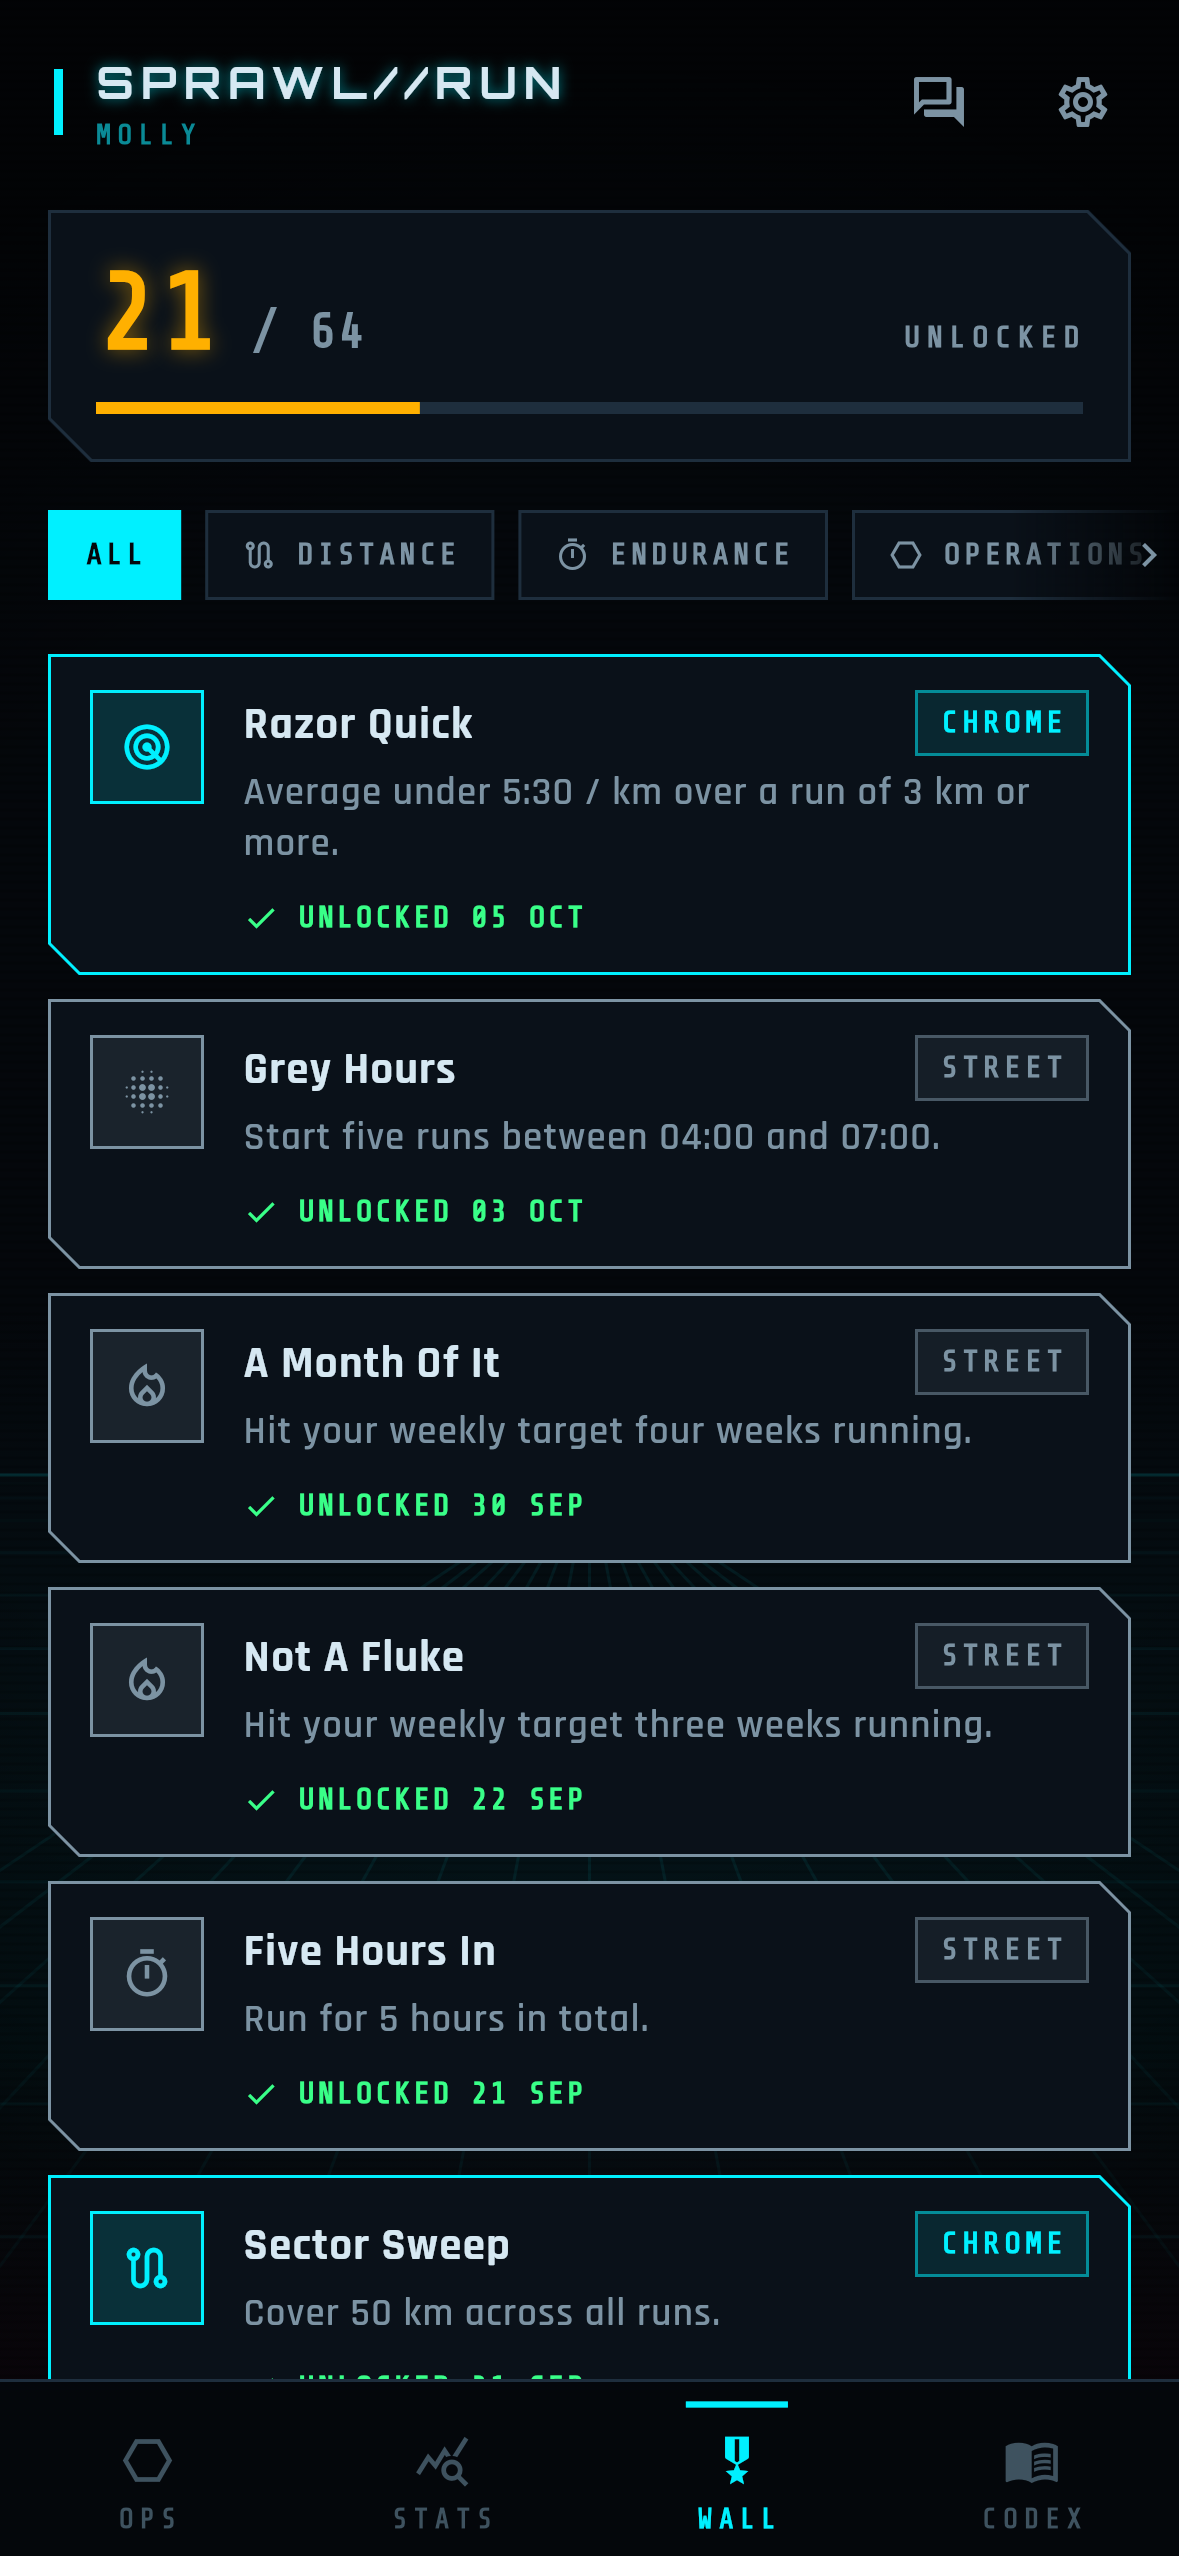
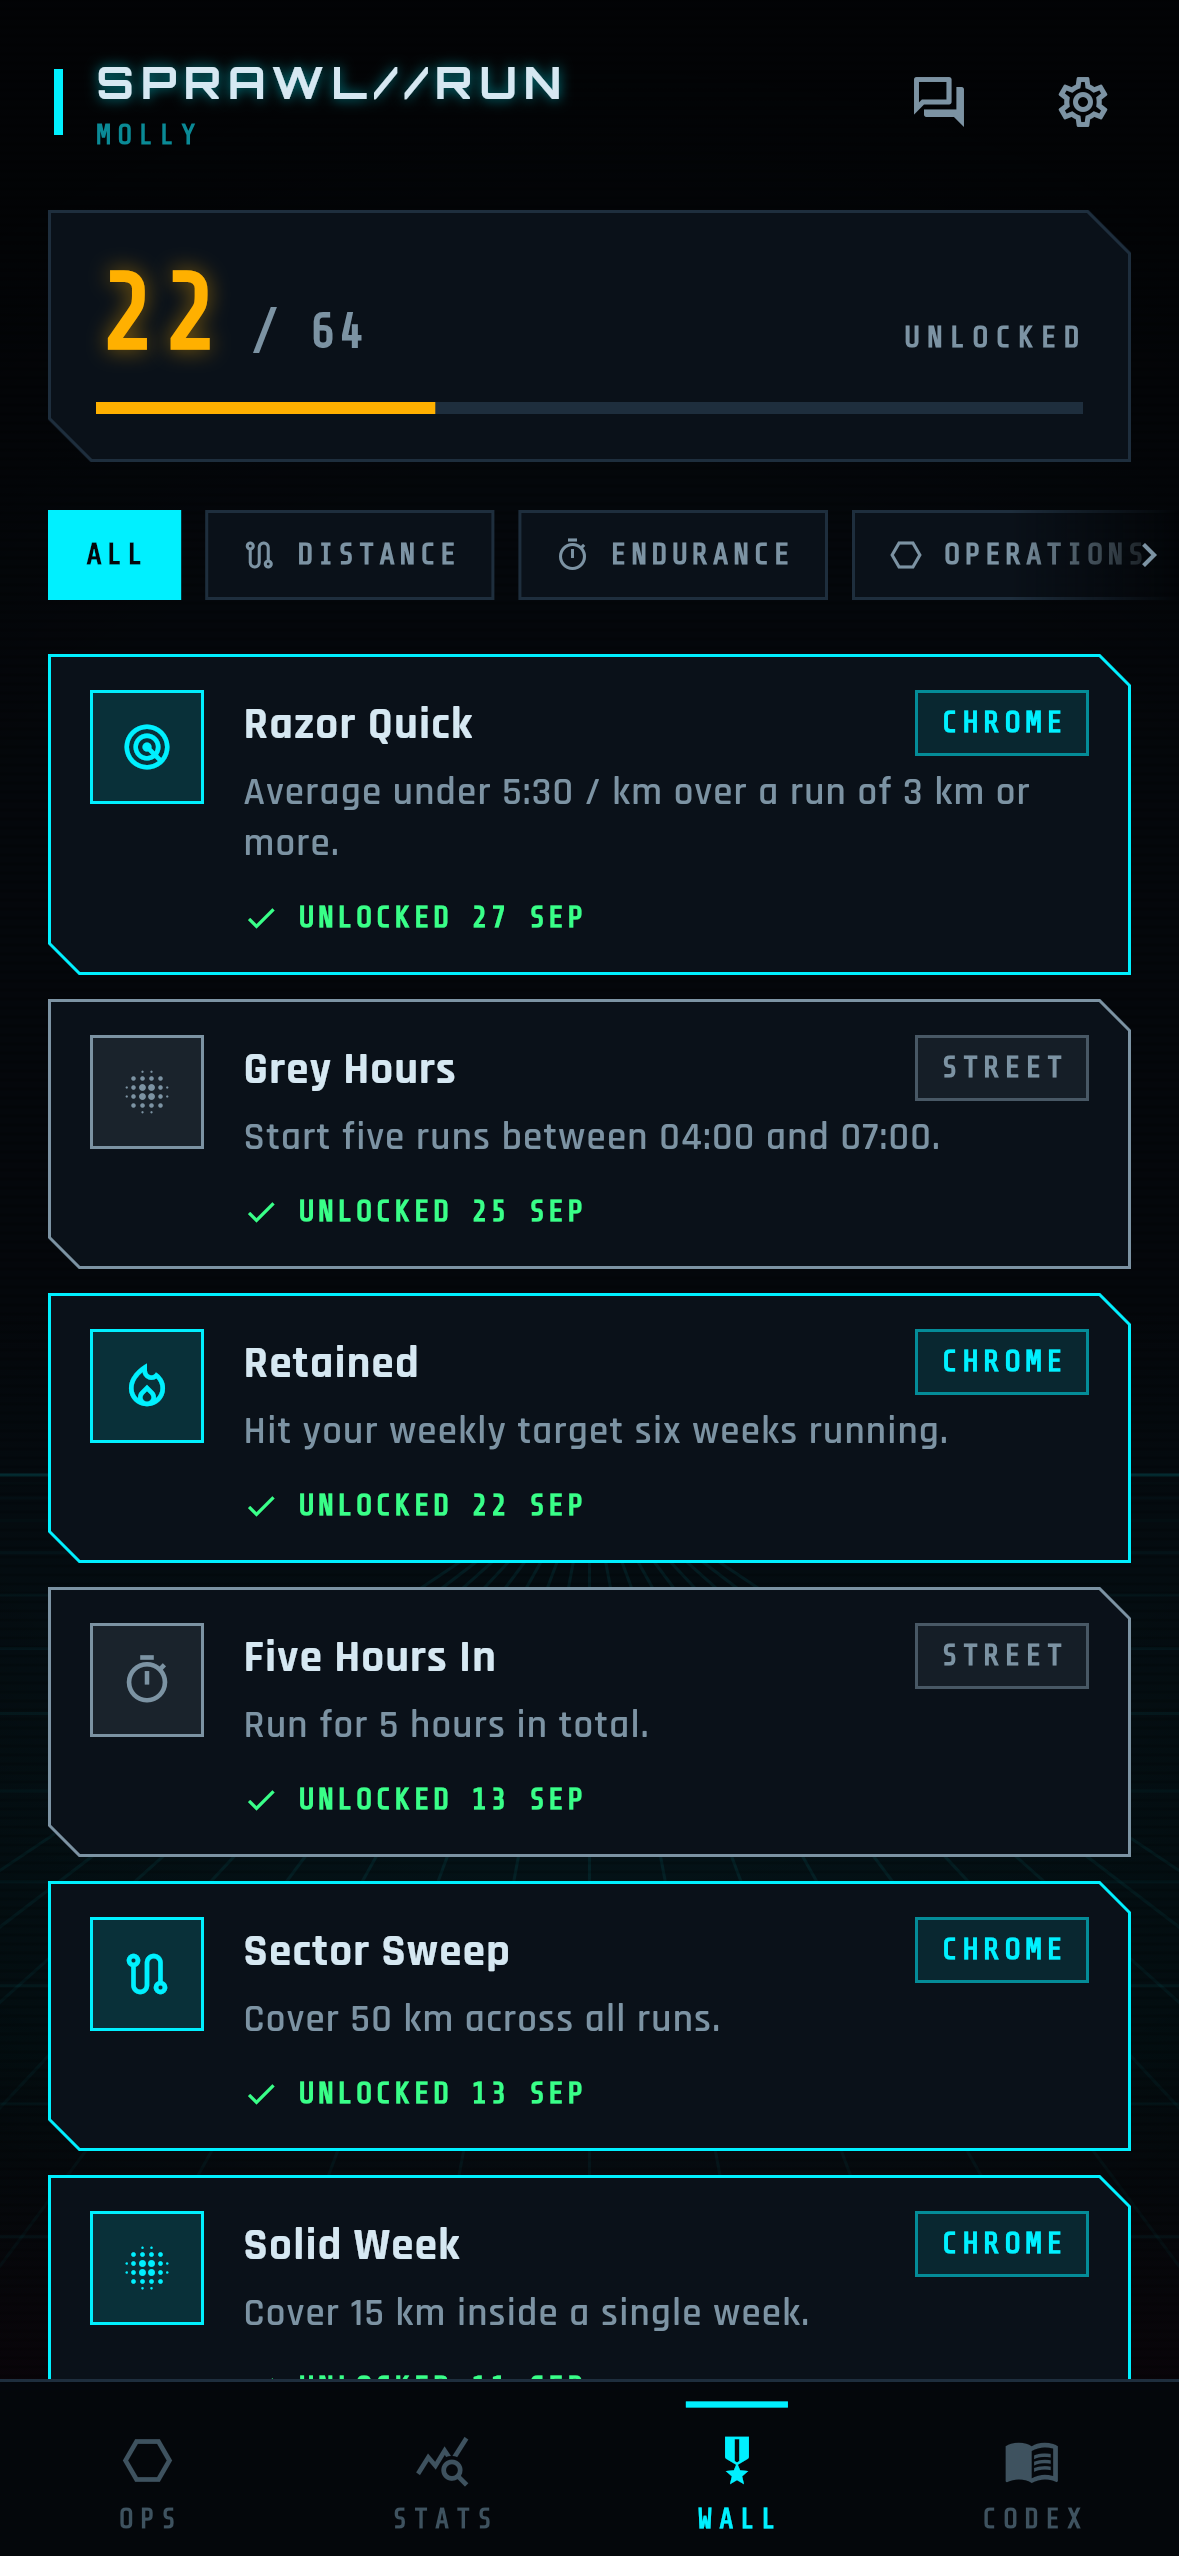
Pin the screenshot tool to a fixed Sunday evening

diff --git a/lib/services/stats_service.dart b/lib/services/stats_service.dart
@@ -4,6 +4,7 @@ import '../models/profile.dart';
 import '../models/run_record.dart';
 import '../models/stats.dart';
 import '../util/format.dart';
+import '../util/clock.dart';
 
 /// Every derived number in the app is computed here, from the run log alone.
 ///
@@ -67,7 +68,7 @@ abstract final class StatsService {
 
   /// Rolling window ending now — "the last 7 days", not "since Monday".
   static PeriodStats lastDays(List<RunRecord> runs, int days, {required String label, DateTime? now}) {
-    final end = _nextDay(dayStart(now ?? DateTime.now()));
+    final end = _nextDay(dayStart(now ?? appNow()));
     return period(runs, label: label, from: end.subtract(Duration(days: days)), to: end);
   }
 
@@ -86,7 +87,7 @@ abstract final class StatsService {
     final scoring = runs.where((r) => r.countsForStats);
     if (scoring.isEmpty) return const [];
     final first = scoring.map((r) => r.startedAt).reduce((a, b) => a.isBefore(b) ? a : b);
-    final last = monthStart(now ?? DateTime.now());
+    final last = monthStart(now ?? appNow());
 
     final out = <PeriodStats>[];
     for (var month = monthStart(first); !month.isAfter(last); month = addMonths(month, 1)) {
@@ -108,7 +109,7 @@ abstract final class StatsService {
     }
 
     final weekly = _weeklyTotals(scoring);
-    final streak = _streakWeeks(weekly, goal, now: now ?? DateTime.now());
+    final streak = _streakWeeks(weekly, goal, now: now ?? appNow());
 
     final sortedByDate = List<RunRecord>.from(scoring)..sort((a, b) => a.startedAt.compareTo(b.startedAt));
     final completed = scoring.where((r) => r.isMission && r.isSuccess).map((r) => r.missionId!).toSet();
@@ -144,7 +145,7 @@ abstract final class StatsService {
   }
 
   static StreakStatus streak(List<RunRecord> runs, StreakGoal goal, {DateTime? now}) {
-    final at = now ?? DateTime.now();
+    final at = now ?? appNow();
     final weekly = _weeklyTotals(runs.where((r) => r.countsForStats).toList());
     final (current, longest) = _streakWeeks(weekly, goal, now: at);
 

diff --git a/tool/screenshots/capture_test.dart b/tool/screenshots/capture_test.dart
@@ -21,7 +21,7 @@ import 'package:flutter_test/flutter_test.dart';
 import 'package:provider/provider.dart';
 import 'package:sprawl_run/widgets/glitch_text.dart';
 import 'package:sprawl_run/app.dart';
-import 'package:sprawl_run/screens/dashboard_screen.dart';
+import 'package:sprawl_run/util/clock.dart';
 import 'package:sprawl_run/data/mission_repository.dart';
 import 'package:sprawl_run/data/profile_repository.dart';
 import 'package:sprawl_run/data/run_repository.dart';
@@ -299,6 +299,10 @@ List<TracePoint> _sampleRoute({
   ];
 }
 
+/// When the screenshots claim to be taken. A Sunday, so the sample weeks are
+/// all whole.
+final _shotsTakenAt = DateTime(2026, 9, 27, 21, 0);
+
 Future<AppState> _seed(WidgetTester tester) async {
   // The run screen asks for notification permission before it starts the run,
   // and an unanswered platform call never returns in the harness — so the HUD
@@ -308,9 +312,13 @@ Future<AppState> _seed(WidgetTester tester) async {
     (call) async => true,
   );
 
-  // Evening, the hour the run-HUD shot is set at — and the night city's line.
-  debugGreetingHour = 21;
-  addTearDown(() => debugGreetingHour = null);
+  // The app's "now", pinned: a Sunday evening, so every week in the sample
+  // data is complete — on a real Monday the current week was nearly empty and
+  // the streak card read "1 MIN to go" — and the hour of the run-HUD shot,
+  // which is also the night city's greeting. Every shot is then the same
+  // whenever and wherever the tool runs.
+  debugNow = _shotsTakenAt;
+  addTearDown(() => debugNow = null);
 
   tester.view.physicalSize = _logicalSize * _pixelRatio;
   tester.view.devicePixelRatio = _pixelRatio;
@@ -330,7 +338,7 @@ Future<AppState> _seed(WidgetTester tester) async {
   );
 
   // Anchored to today so regenerating always shows a live current week.
-  final base = DateTime.now();
+  final base = _shotsTakenAt;
   final today = DateTime(base.year, base.month, base.day, 7, 30);
 
   await tester.runAsync(() async {

diff --git a/lib/screens/dashboard_screen.dart b/lib/screens/dashboard_screen.dart
@@ -11,6 +11,7 @@ import '../services/backup_nudge.dart';
 import '../state/app_state.dart';
 import '../theme/cyber_palette.dart';
 import '../theme/cyber_theme.dart';
+import '../util/clock.dart';
 import '../util/format.dart';
 import '../widgets/backup_controls.dart';
 import '../widgets/glitch_text.dart';
@@ -128,12 +129,6 @@ class DashboardScreen extends StatelessWidget {
   }
 }
 
-/// Pins the hour the greeting reads. Left to the real clock, every screenshot
-/// regeneration changed the dashboard shot for nothing but the time of day it
-/// happened to run at. Named `debug` in the Flutter sense: it exists for
-/// `tool/screenshots/capture_test.dart` and nothing in the app sets it.
-int? debugGreetingHour;
-
 class _Greeting extends StatelessWidget {
   const _Greeting({required this.callsign});
 
@@ -142,7 +137,7 @@ class _Greeting extends StatelessWidget {
   /// Flavour that tracks the clock — the Sprawl is a night city, and the app
   /// should sound like it knows what time it is.
   String get _line {
-    final hour = debugGreetingHour ?? DateTime.now().hour;
+    final hour = appNow().hour;
     if (hour < 5) {
       return 'The city is at its quietest. Nobody is watching the streets at this hour.';
     }
@@ -160,7 +155,7 @@ class _Greeting extends StatelessWidget {
   }
 
   String get _salutation {
-    final hour = debugGreetingHour ?? DateTime.now().hour;
+    final hour = appNow().hour;
     if (hour < 5) return 'STILL AWAKE';
     if (hour < 12) return 'MORNING';
     if (hour < 18) return 'AFTERNOON';

diff --git a/lib/screens/timeline_screen.dart b/lib/screens/timeline_screen.dart
@@ -13,6 +13,7 @@ import '../widgets/backdrop.dart';
 import '../widgets/filter_rail.dart';
 import '../widgets/panels.dart';
 import 'run_detail_screen.dart';
+import '../util/clock.dart';
 
 /// THE WIRE — everything that has come over it, newest first: the handlers'
 /// messages, runs, cleared operations, achievements and intel. Called the
@@ -110,7 +111,7 @@ class _TimelineScreenState extends State<TimelineScreen> {
           .where((e) => e.kind == TimelineKind.signal && e.title == focus.from && e.body == focus.text)
           .firstOrNull;
       if (focused == null) {
-        focused = TimelineEntry(at: DateTime.now(), kind: TimelineKind.signal, title: focus.from, body: focus.text);
+        focused = TimelineEntry(at: appNow(), kind: TimelineKind.signal, title: focus.from, body: focus.text);
         entries = [focused, ...entries];
       }
     }
@@ -231,7 +232,7 @@ class _DayHeader extends StatelessWidget {
 
   @override
   Widget build(BuildContext context) {
-    final now = DateTime.now();
+    final now = appNow();
     final today = DateTime(now.year, now.month, now.day);
     final label = switch (today.difference(day).inDays) {
       0 => 'TODAY',

diff --git a/lib/state/app_state.dart b/lib/state/app_state.dart
@@ -22,6 +22,7 @@ import '../services/signal_library.dart';
 import '../services/signal_planner.dart';
 import '../services/signal_scheduler.dart';
 import '../services/stats_service.dart';
+import '../util/clock.dart';
 
 /// The single source of truth the UI reads from.
 ///
@@ -84,7 +85,7 @@ class AppState extends ChangeNotifier {
   Future<void> loadSignalArchive() async {
     if (_archiveRequested) return;
     _archiveRequested = true;
-    signalHistory = _library.resolveAll(await signalLog.sent(DateTime.now()));
+    signalHistory = _library.resolveAll(await signalLog.sent(appNow()));
     _archiveReady = true;
     notifyListeners();
   }
@@ -457,7 +458,7 @@ class AppState extends ChangeNotifier {
 
   /// Whether to ask the runner to export, and how much is at stake.
   BackupNudge? get backupNudge =>
-      BackupNudge.of(profile: profile, runLog: runLog, now: DateTime.now());
+      BackupNudge.of(profile: profile, runLog: runLog, now: appNow());
 
   /// Restores [archive] and rebuilds everything derived from it.
   ///

diff --git a/lib/screens/stats_screen.dart b/lib/screens/stats_screen.dart
@@ -15,6 +15,7 @@ import '../widgets/period_card.dart';
 import '../widgets/run_row.dart';
 import 'history_screen.dart';
 import 'period_detail_screen.dart';
+import '../util/clock.dart';
 
 /// Week, month, lifetime, and the run log.
 ///
@@ -204,7 +205,7 @@ class _PeriodPagerState extends State<_PeriodPager> {
   @override
   Widget build(BuildContext context) {
     final state = context.watch<AppState>();
-    final now = DateTime.now();
+    final now = appNow();
     final current = _startOf(now);
     final start = _shift(current, -_back);
     final end = _shift(start, 1);
@@ -251,7 +252,7 @@ class _HistoryTeaser extends StatelessWidget {
   @override
   Widget build(BuildContext context) {
     final runLog = context.select<AppState, List<RunRecord>>((s) => s.runLog);
-    final today = StatsService.dayStart(DateTime.now());
+    final today = StatsService.dayStart(appNow());
     final thisWeek = StatsService.weekStart(today);
     final window = StatsService.period(
       runLog,

diff --git a/lib/util/clock.dart b/lib/util/clock.dart
@@ -1,0 +1,16 @@
+/// The app's idea of "now", for everything *derived* from the time: which week
+/// is this week, how long a streak has left, how long ago something was, what
+/// the greeting says.
+///
+/// Things that *record* a moment — an export's file name, when a nudge was
+/// snoozed, the stamp on a quarantined file — read the real clock directly,
+/// because they are facts about this device.
+///
+/// In the app this is the real clock. [debugNow] pins it for
+/// `tool/screenshots/capture_test.dart`: left to the real clock, the store
+/// screenshots changed with the hour and the weekday they were taken on — on a
+/// Monday the sample week was nearly empty and the streak card read "1 MIN to
+/// go". Named `debug` in the Flutter sense; nothing in the app sets it.
+DateTime appNow() => debugNow ?? DateTime.now();
+
+DateTime? debugNow;

diff --git a/lib/screens/history_screen.dart b/lib/screens/history_screen.dart
@@ -12,6 +12,7 @@ import '../widgets/backdrop.dart';
 import '../widgets/history_widgets.dart';
 import '../widgets/panels.dart';
 import 'period_detail_screen.dart';
+import '../util/clock.dart';
 
 /// The whole log at a glance: distance per month since the first run, then
 /// every month as a dot calendar. Months and lit days open in detail.
@@ -22,7 +23,7 @@ class HistoryScreen extends StatelessWidget {
   Widget build(BuildContext context) {
     final state = context.watch<AppState>();
     final units = state.profile.units;
-    final today = StatsService.dayStart(DateTime.now());
+    final today = StatsService.dayStart(appNow());
     // Oldest first for the bars, newest first for the blocks below them.
     final months = StatsService.monthlyHistory(state.runLog, now: today);
     final scale = DotScale.of(months.expand((m) => m.perDay));

diff --git a/lib/widgets/backup_controls.dart b/lib/widgets/backup_controls.dart
@@ -12,6 +12,7 @@ import '../theme/cyber_palette.dart';
 import '../theme/cyber_theme.dart';
 import '../util/format.dart';
 import 'panels.dart';
+import '../util/clock.dart';
 
 /// Writes a backup and hands it to the share sheet, returning what to tell the
 /// runner. Throws on failure; the caller owns the message either way.
@@ -247,7 +248,7 @@ class _ExportStatus extends StatelessWidget {
     if (last == null && atRisk == 0) return const SizedBox.shrink();
 
     final parts = [
-      last == null ? 'Never exported' : 'Last export: ${Fmt.ago(DateTime.now().difference(last))}',
+      last == null ? 'Never exported' : 'Last export: ${Fmt.ago(appNow().difference(last))}',
       if (atRisk > 0) '$atRisk run${atRisk == 1 ? '' : 's'} since',
     ];
 

diff --git a/CLAUDE.md b/CLAUDE.md
@@ -78,6 +78,12 @@ them across by hand is what left the published listing on 0.1.0 shots — taken
 before the second campaign existed — until 2026-09-30. Edit the generator and re-run it. The
 only third-party binaries in the repo are the three OFL fonts.
 
+Regenerating is repeatable: the tool pins `appNow()` (`lib/util/clock.dart`) to
+a Sunday evening and seeds its data from that instant, so two runs produce
+byte-identical images whatever the day. Anything on screen derived from the
+time — this week, streaks, "ago", the greeting — must read `appNow()`, not
+`DateTime.now()`, or the store shots start drifting with the weekday again.
+
 ## Conventions worth preserving
 
 - **`RunEngine` owns no persistence and no UI.** It takes a `LocationSource`, a
